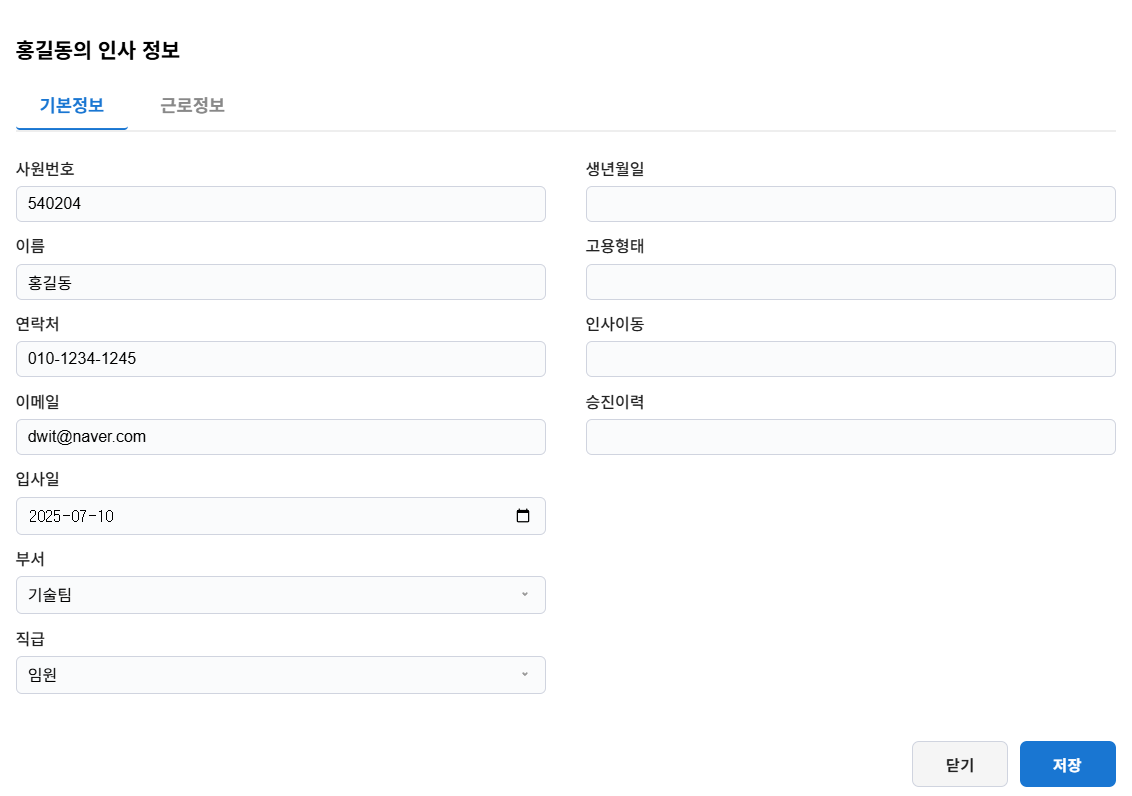
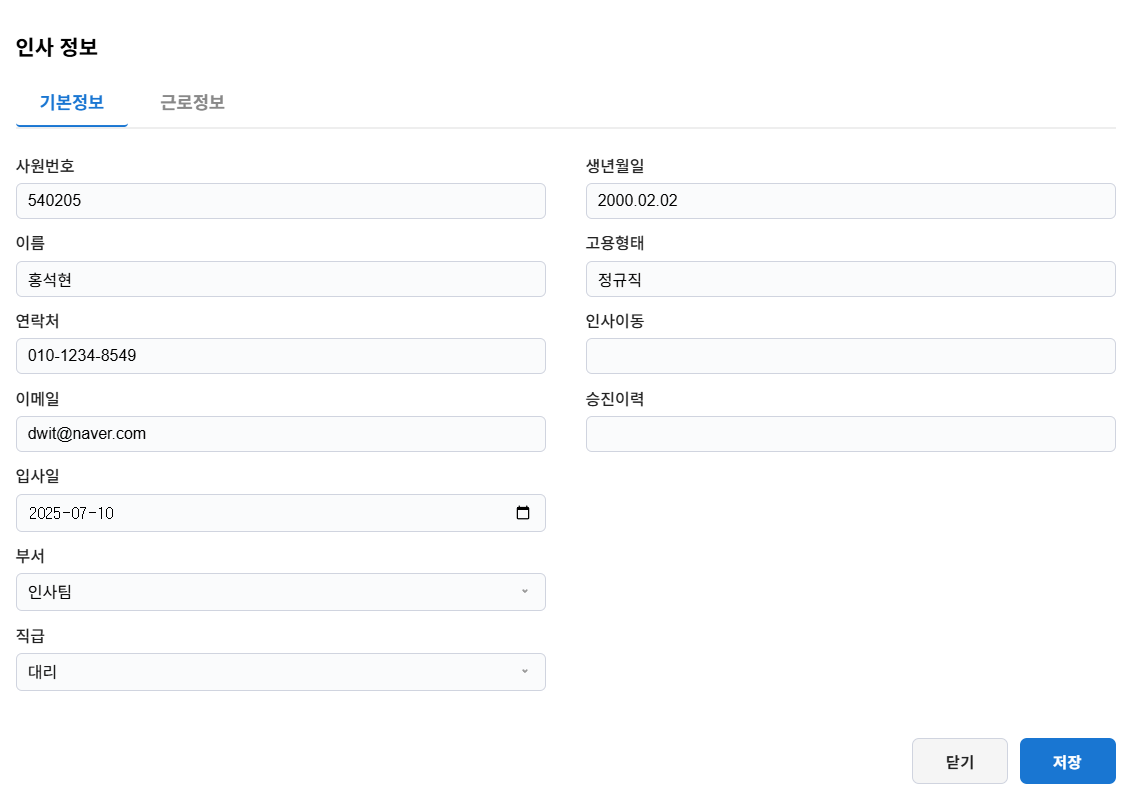
hong

diff --git a/css/index.css b/css/index.css
@@ -505,7 +505,7 @@
 
 .personnel_information_list_text_box {
     width: 40%;
-    margin-left: 7%;
+    margin-left: 3%;
 }
 .personnel_information_list_text_box h5 {
     color: #1e1f21;
@@ -524,11 +524,11 @@
     line-height: 1.75;
 }
 .personnel_information_list_img_box {
-    width: 50%;
+    width: 60%;
 }
 
 .personnel_information_list_img_box img {
-    width: 60%;
+    width: 80%;
     margin-left: 15%;
 }
 .message_and_contract {

diff --git a/html/login/admin_page.html b/html/login/admin_page.html
@@ -666,7 +666,7 @@
                             margin-bottom: 1.2rem;
                         "
                     >
-                        홍길동의 인사 정보
+                        인사 정보
                     </h2>
                     <div class="employee-modal-tabs">
                         <button
